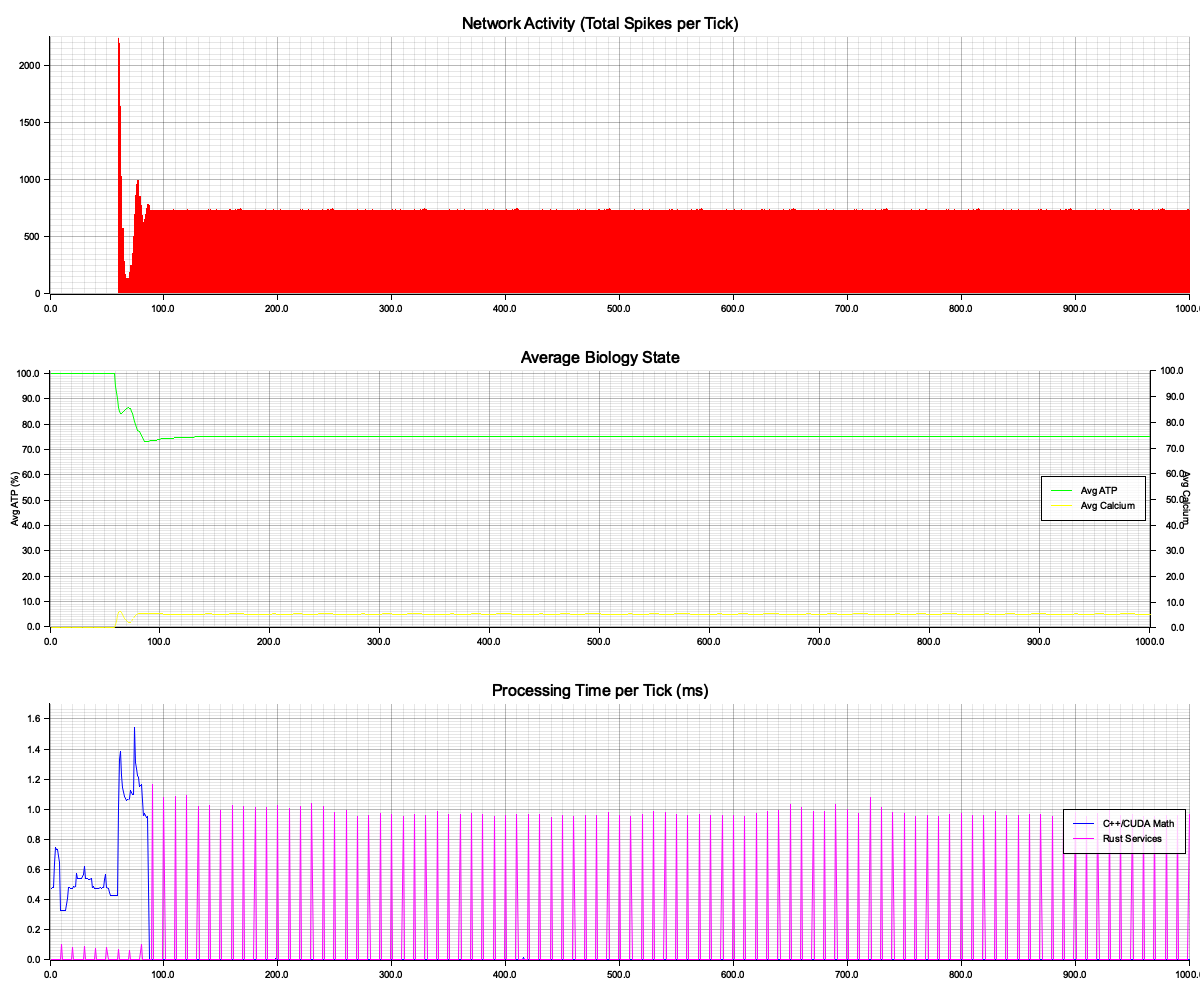
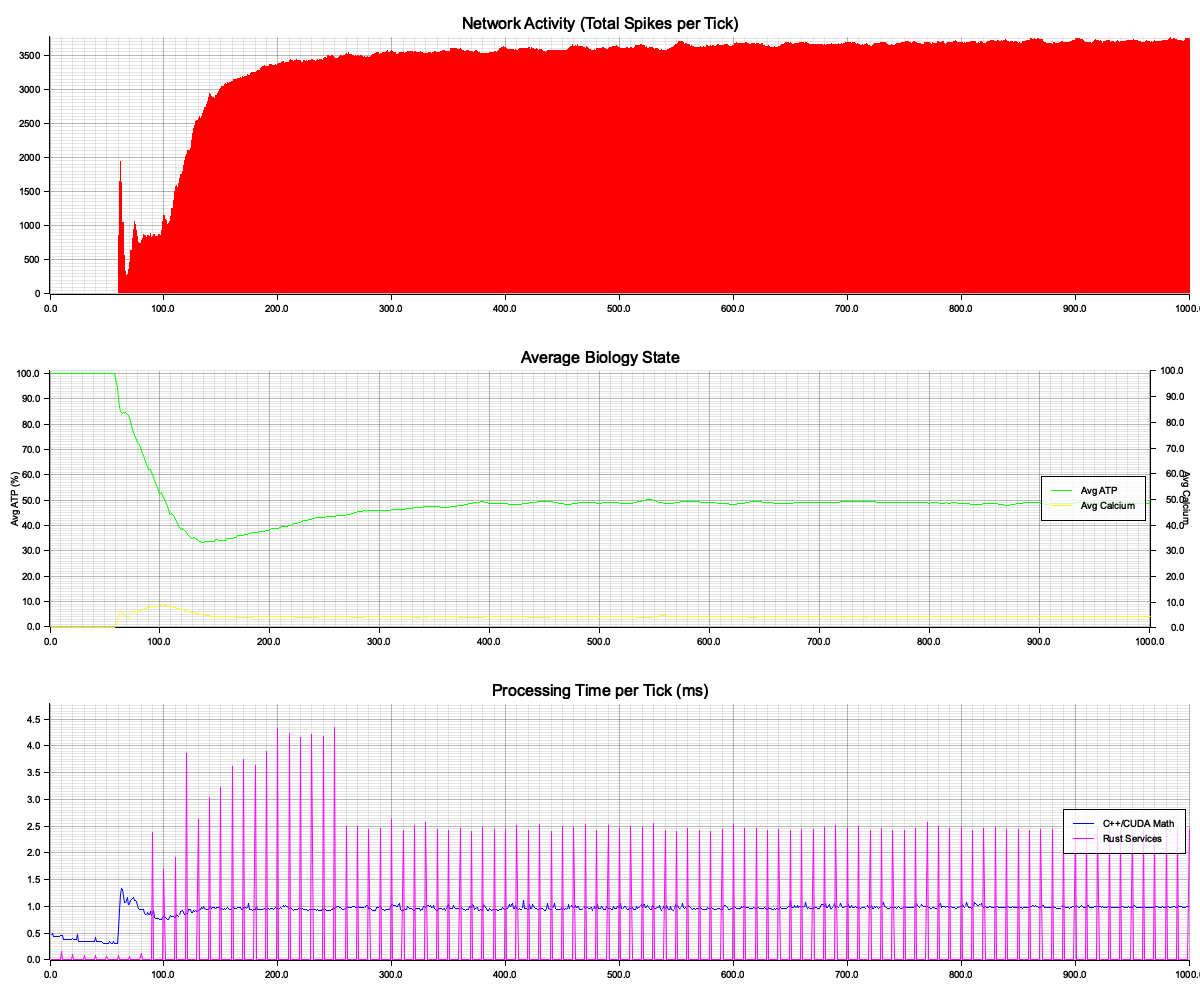
feat: implement high-performance parallel GPU architecture (Phase 12)
- Split CUDA kernels into independent neuron-parallel and synapse-parallel passes.
- Introduced atomicAdd for thread-safe synaptic signal integration.
- Implemented dashboard visualization for 10k neuron / 100k synapse benchmarks.
- Optimized mock CPU execution path with aggressive inlining.
- Added comprehensive README.md and updated performance baselines.

Changed region(s): [[0.0308, 0.682, 1.0, 0.961], [0.0, 0.031, 1.0, 0.31], [0.0925, 0.403, 0.1233, 0.434]]

diff --git a/src/main.rs b/src/main.rs
@@ -17,11 +17,11 @@ fn setup_benchmark(neurons_count: u32, synapses_count: u32) -> NetworkGraph {
 
     // Creating neurons
     for _ in 0..neurons_count {
-        // Randomly assign types just for variety
-        let n_type = match rng.random_range(0..4) {
-            0 => NeuronType::Pyramidal,
-            1 => NeuronType::Bipolar,
-            2 => NeuronType::Interneuron,
+        // Biased random types: 70% Pyramidal, others 10% each
+        let n_type = match rng.random_range(0..10) {
+            0..=6 => NeuronType::Pyramidal,
+            7 => NeuronType::Bipolar,
+            8 => NeuronType::Interneuron,
             _ => NeuronType::Pacemaker,
         };
         graph.add_neuron(n_type);

diff --git a/cuda/base_neuron.h b/cuda/base_neuron.h
@@ -11,6 +11,8 @@
     #define __global__
     #define __device__
     #define __host__
+    // Mock atomicAdd for CPU testing - simplified for speed
+    #define atomicAdd(addr, val) (*(addr) += (val))
 #endif
 
 extern "C" {

diff --git a/specs/11_heterogeneity_and_validation.md b/specs/11_heterogeneity_and_validation.md
@@ -1,0 +1,46 @@
+# Heterogeneity, Evolution, and Validation Protocol
+
+Этот документ описывает переход от "идеальных клонов" к биологическому многообразию и методы верификации системы.
+
+## 1. Гетерогенность (Начальный Рандом)
+В природе нет двух одинаковых нейронов. При инициализации нейрона через `init_neuron` параметры НЕ должны быть константами. Используется нормальное распределение (Gaussian Distribution).
+
+**Формула:** $$Value_{final} = \mu + \sigma \cdot N(0, 1)$$
+
+| Параметр | База ($\mu$) | Отклонение ($\sigma$) | Смысл |
+| :--- | :--- | :--- | :--- |
+| `resting_voltage` | -70.0 mV | 2.5 mV | Разный уровень "спокойствия" |
+| `activation_threshold`| -55.0 mV | 1.5 mV | Разная "возбудимость" |
+| `energy_atp_max` | 100.0 | 5.0 | Разный объем метаболических баков |
+| `leak_efficiency` | 1.0 (coeff) | 0.1 | Эффективность насосов |
+
+
+
+## 2. Эволюция и Адаптация (Homeostatic Plasticity)
+Нейрон должен менять свои параметры "на лету" (в ядре CUDA), чтобы выживать и эффективно работать.
+
+- **Threshold Scaling:** Если средняя частота спайков за последние 1000 тактов превышает лимит — нейрон плавно повышает свой `activation_threshold` (становится "толстокожим").
+- **Metabolic Stress:** Если АТФ часто падает ниже 20%, эффективность генерации АТФ митохондриями падает (эффект износа).
+- **BDNF Growth:** При успешном обучении (STDP) соседние Астроциты выделяют фактор роста, что увеличивает `receptor_count` (вес) синапсов.
+
+## 3. Расширенные Юзкейсы (Stress-Tests)
+
+### UseCase 1: Synaptic Fatigue (Усталость)
+- **Стимул:** Подача 100 Гц сигнала на один дендрит.
+- **Ожидание:** Истощение `vesicles_pool`. Эффективный сигнал на выходе должен затухать, даже если на входе всё еще "жара".
+
+### UseCase 2: Hypoxic Shutdown (Смерть от удушья)
+- **Стимул:** `Environment.global_oxygen_level = 0.05` на 500 тактов.
+- **Ожидание:** Коллапс АТФ -> остановка насосов -> вольтаж дрейфует к 0 -> вызов `die_gracefully`.
+
+### UseCase 3: Epileptic Feedback (Зацикливание)
+- **Стимул:** Соединение трех Пирамидальных нейронов в кольцо с весом 5.0.
+- **Ожидание:** Неконтролируемый саморазгон -> кальциевый взрыв (`calcium_level >= 100`) -> смерть всей группы.
+
+## 4. Валидация (Digital Twin)
+Чтобы подтвердить точность модели, результаты симуляции (CSV/Графики) должны сравниваться с реальными данными (например, из Allen Brain Institute).
+
+**Метрики успеха:**
+1. **Spike Shape:** Форма кривой спайка должна иметь фазы деполяризации, реполяризации и следовой гиперполяризации (просадка до -80mV).
+2. **Frequency-Current (F-I) Curve:** Зависимость частоты выстрелов от силы входящего тока должна быть логарифмической, а не линейной.
+3. **Heatmap Visualization:** На графе сети нейроны должны окрашиваться в зависимости от состояния (Белый: спайк, Красный: кальциевый стресс, Серый: смерть).

diff --git a/README.md b/README.md
@@ -29,6 +29,9 @@ The project is designed for deployment on edge AI hardware like **NVIDIA Jetson*
 ## Architecture
 
 - **Rust Subsystem:** Handles the `NetworkGraph`, FFI bindings, background services, and native data visualization via `plotters`.
+- **Parallel Processing (Phase 12):** Multi-kernel architecture for maximum GPU throughput:
+  - `tick_neurons_kernel`: Independent biology (metabolism, spiking) per neuron.
+  - `tick_synapses_kernel`: Massive synapse-parallel processing (100k+ connections) using **atomic operations** (`atomicAdd`) for thread-safe voltage updates.
 - **CUDA Subsystem:** High-speed kernels for voltage integration, synaptic processing, and metabolic updates.
 - **FFI Layer:** Zero-copy interaction using raw pointers and C-compatible structs.
 
